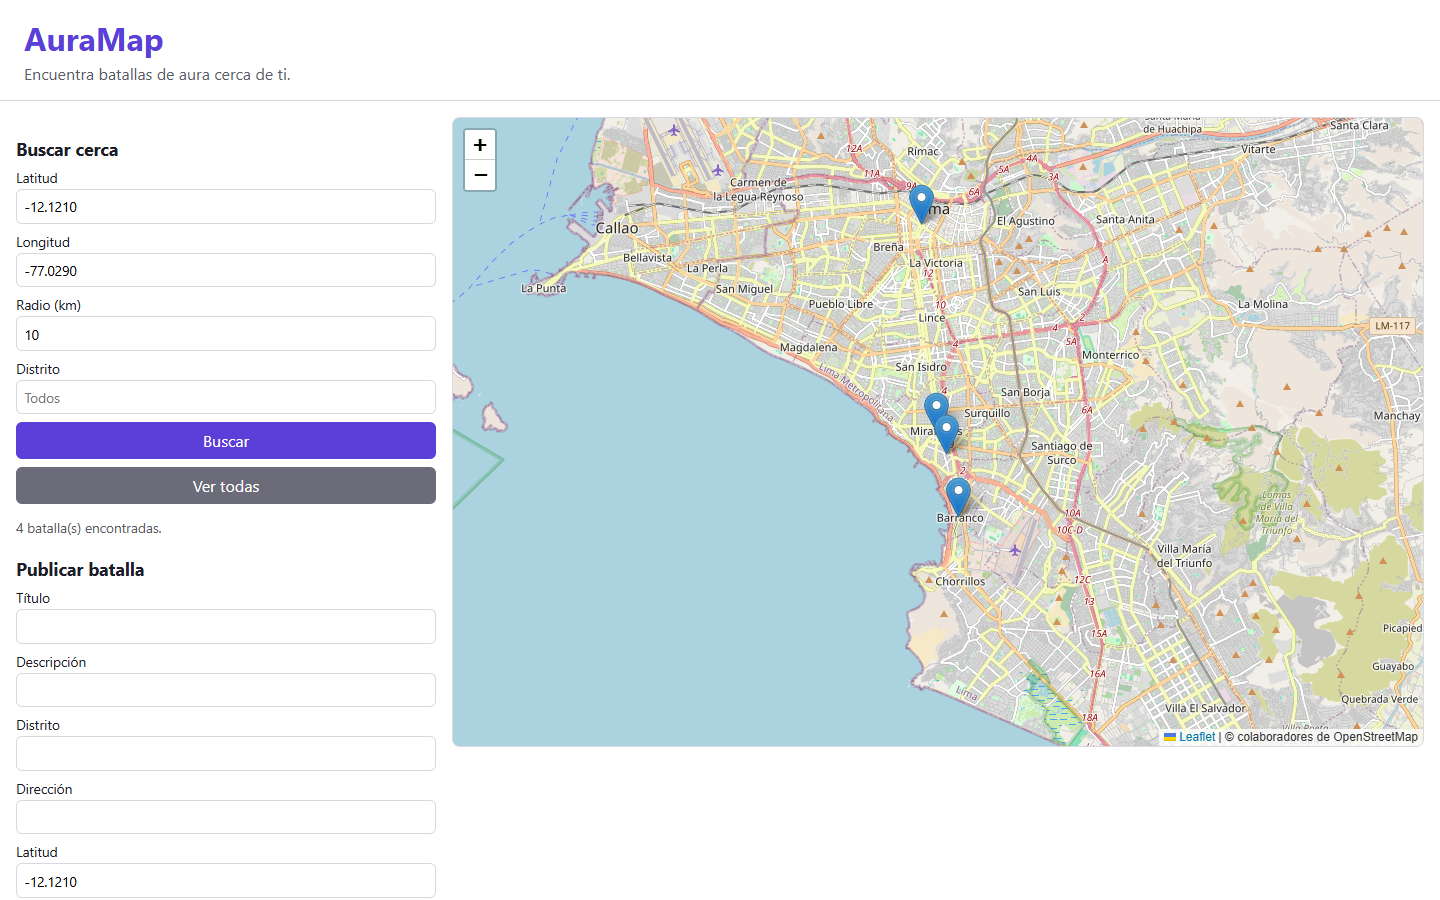
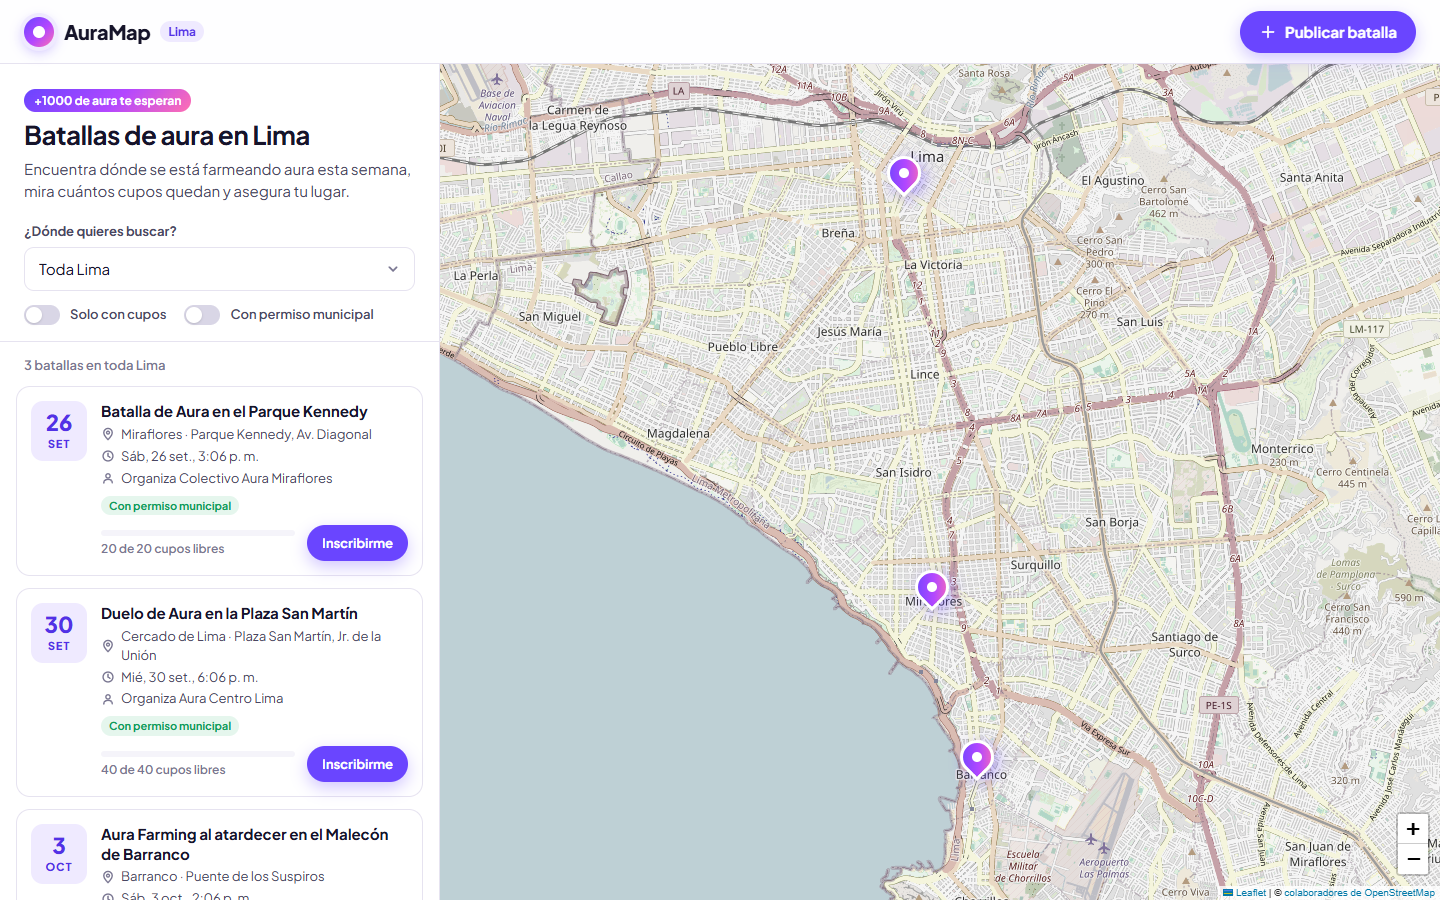
docs(informe): actualizar capturas con la nueva interfaz

diff --git a/docs/INFORME.md b/docs/INFORME.md
@@ -335,26 +335,43 @@ la base de datos solo es alcanzable desde el contenedor de Flask.
 
 ![Red privada interna y Postgres sin puertos publicados](../imagenes/10-red-privada-y-puertos.png)
 
-**La app en el navegador** (`http://localhost:8080`). El mapa muestra las
-batallas de aura cercanas; al hacer clic en un marcador se ve la ficha con
-lugar, fecha, cupo, organizador y si tiene permiso municipal:
+**La app en el navegador** (`http://localhost:8080`). Nadie busca un evento
+escribiendo latitud y longitud, así que la interfaz habla en el idioma de
+Lima: a la izquierda las batallas como tarjetas (fecha, lugar, organizador,
+permiso municipal y una barra con los cupos que quedan) y a la derecha el
+mapa. Al tocar una tarjeta el mapa vuela al pin y abre su ficha:
 
 ![Mapa de AuraMap con las batallas de Lima](../imagenes/11-mapa-auramap.png)
 
-![Ficha de una batalla al hacer clic en el marcador](../imagenes/12-popup-batalla.png)
+![Tarjeta seleccionada y ficha de la batalla en el mapa](../imagenes/12-popup-batalla.png)
 
-Un organizador publica su batalla desde el formulario (validada en el backend:
-fecha futura, cupo 1–100, coordenadas válidas) y aparece al instante en el
-mapa, guardada en Postgres:
+**Buscar como humano.** En "¿Dónde quieres buscar?" se elige un distrito de
+Lima o "Cerca de mí" (usa la ubicación del celular) y una distancia máxima
+en chips (2, 5, 10 o 20 km). El mapa dibuja el radio y cada tarjeta muestra a
+cuántos km queda. Aquí, batallas a menos de 2 km de Miraflores:
 
-![Formulario de publicación lleno](../imagenes/13-formulario-publicar.png)
+![Búsqueda por distrito y distancia](../imagenes/15-busqueda-cercana.png)
 
-![Batalla publicada y visible en el mapa](../imagenes/14-batalla-publicada.png)
+**Inscribirse en dos toques.** El botón "Inscribirme" pide solo un nombre; si
+la batalla se llenó o esa persona ya está inscrita, el mismo diálogo muestra
+el error de la API (409) en lenguaje humano:
 
-Y quien solo quiere ir a ver busca por radio y distrito — aquí, batallas en
-Barranco a 5 km a la redonda:
+![Diálogo de inscripción](../imagenes/15b-inscripcion-web.png)
 
-![Búsqueda por radio y distrito](../imagenes/15-busqueda-cercana.png)
+**Publicar sin coordenadas.** El organizador elige el distrito, el minimapa
+se centra ahí y basta con tocar o arrastrar el pin hasta el lugar exacto. Las
+reglas se validan en el navegador y otra vez en el backend (fecha futura,
+cupo 1–100, coordenadas válidas); al publicar, la batalla aparece al instante
+en el mapa, guardada en Postgres:
+
+![Formulario de publicación con pin en el mapa](../imagenes/13-formulario-publicar.png)
+
+![Batalla publicada y seleccionada en el mapa](../imagenes/14-batalla-publicada.png)
+
+**Pensada para celular**, que es donde se comparten estas batallas: el mapa
+pasa arriba y la lista abajo, sin scroll horizontal.
+
+![Versión móvil](../imagenes/15c-version-movil.png)
 
 ![/health en el navegador](../imagenes/17-health-navegador.png)
 
